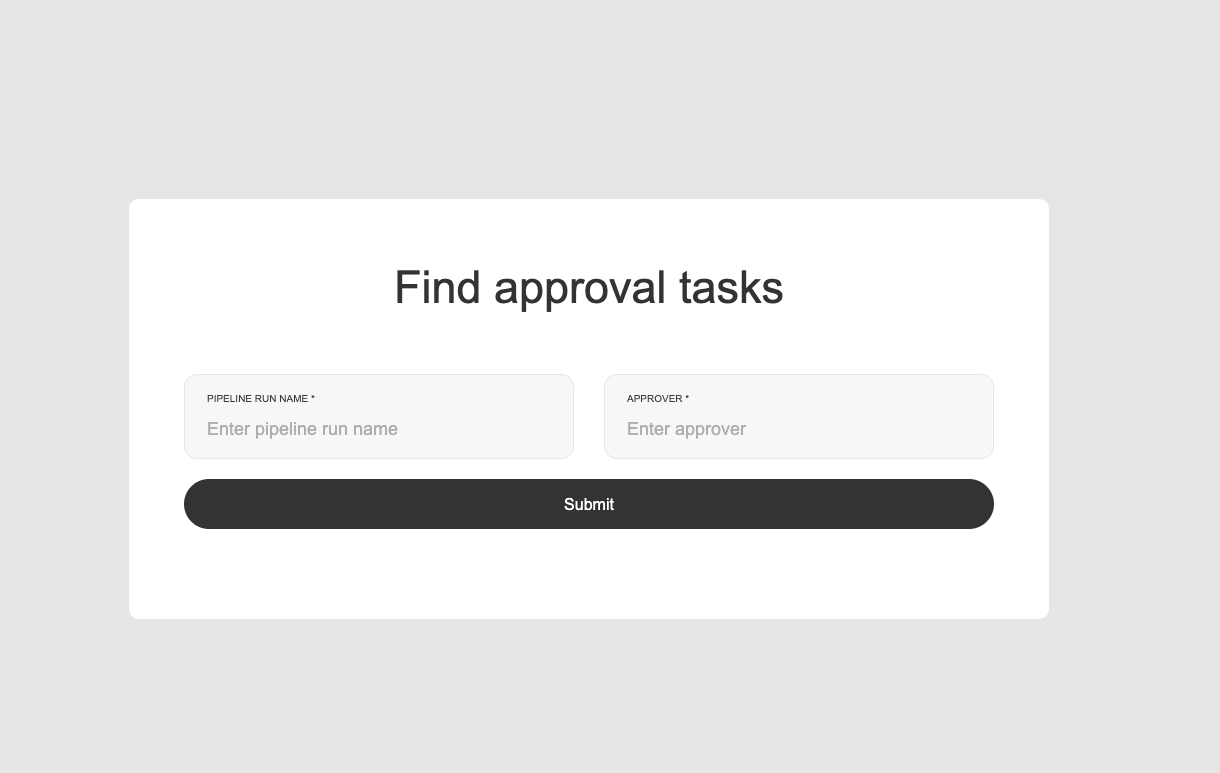
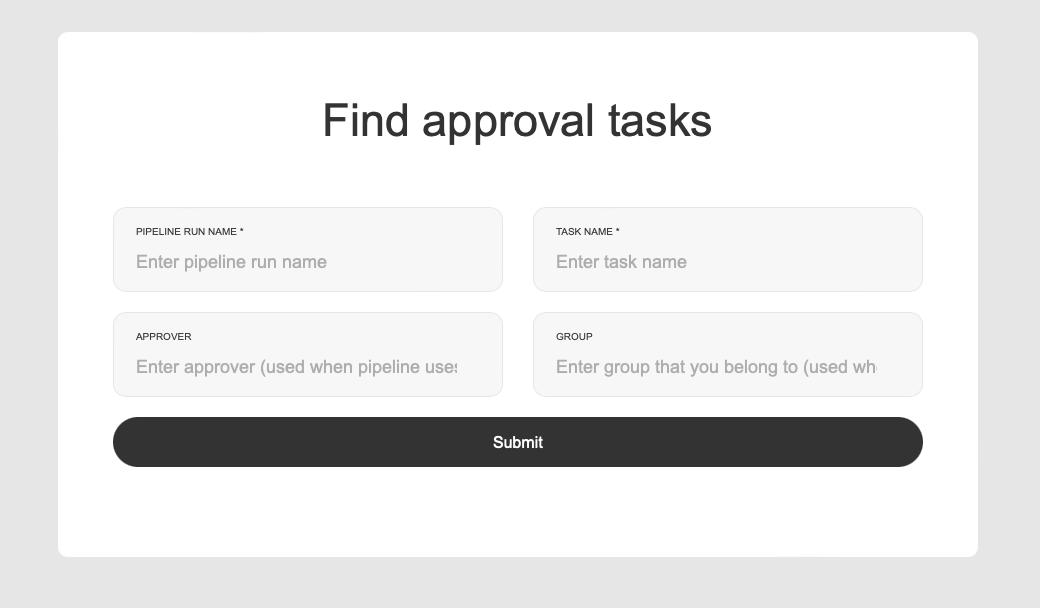
fixed handling approval tasks with custom names instead of hard coded 'approval'

diff --git a/src/main/resources/META-INF/resources/index.html b/src/main/resources/META-INF/resources/index.html
@@ -23,6 +23,11 @@
 						class="input100" type="text" name="name"
 						placeholder="Enter pipeline run name">
 				</div>
+				<div class="wrap-input100 validate-input bg1 rs1-wrap-input100">
+					<span class="label-input100">Task name *</span> <input id="taskName"
+						class="input100" type="text" name="taskName"
+						placeholder="Enter task name">
+				</div>
 
 				<div class="wrap-input100 validate-input bg1 rs1-wrap-input100">
 					<span class="label-input100">Approver </span> <input id="approver"
@@ -62,7 +67,7 @@
 	let loadTasks = function() {
 		
 		$.ajax({
-			url : '/approvals/' + $( "#pipeline" ).val() + '-approval/tasks?user=' + $( "#approver" ).val() + '&group=' + $( "#group" ).val(),
+			url : '/approvals/' + $( "#pipeline" ).val() + '-' + $( "#taskName" ).val() + '/tasks?user=' + $( "#approver" ).val() + '&group=' + $( "#group" ).val(),
 			type : 'GET',
 			dataType : 'json',
 			contentType: 'application/json',
@@ -94,6 +99,10 @@
 		$( "#submitButton" ).on( "click", function() {
 			if ($( "#pipeline" ).val() === '') {
 				alert("Please enter pipeline run name");
+				return;
+			}
+			if ($( "#taskName" ).val() === '') {
+				alert("Please enter task name");
 				return;
 			}
 			

diff --git a/src/main/resources/META-INF/resources/css/main.css b/src/main/resources/META-INF/resources/css/main.css
@@ -146,6 +146,9 @@ iframe {
   margin-bottom: 20px;
 }
 
+.rs1-wrap-input100 {
+   width: calc((100% - 30px) / 2);
+ }
 
 .label-input100 {
   font-family: Arial;
